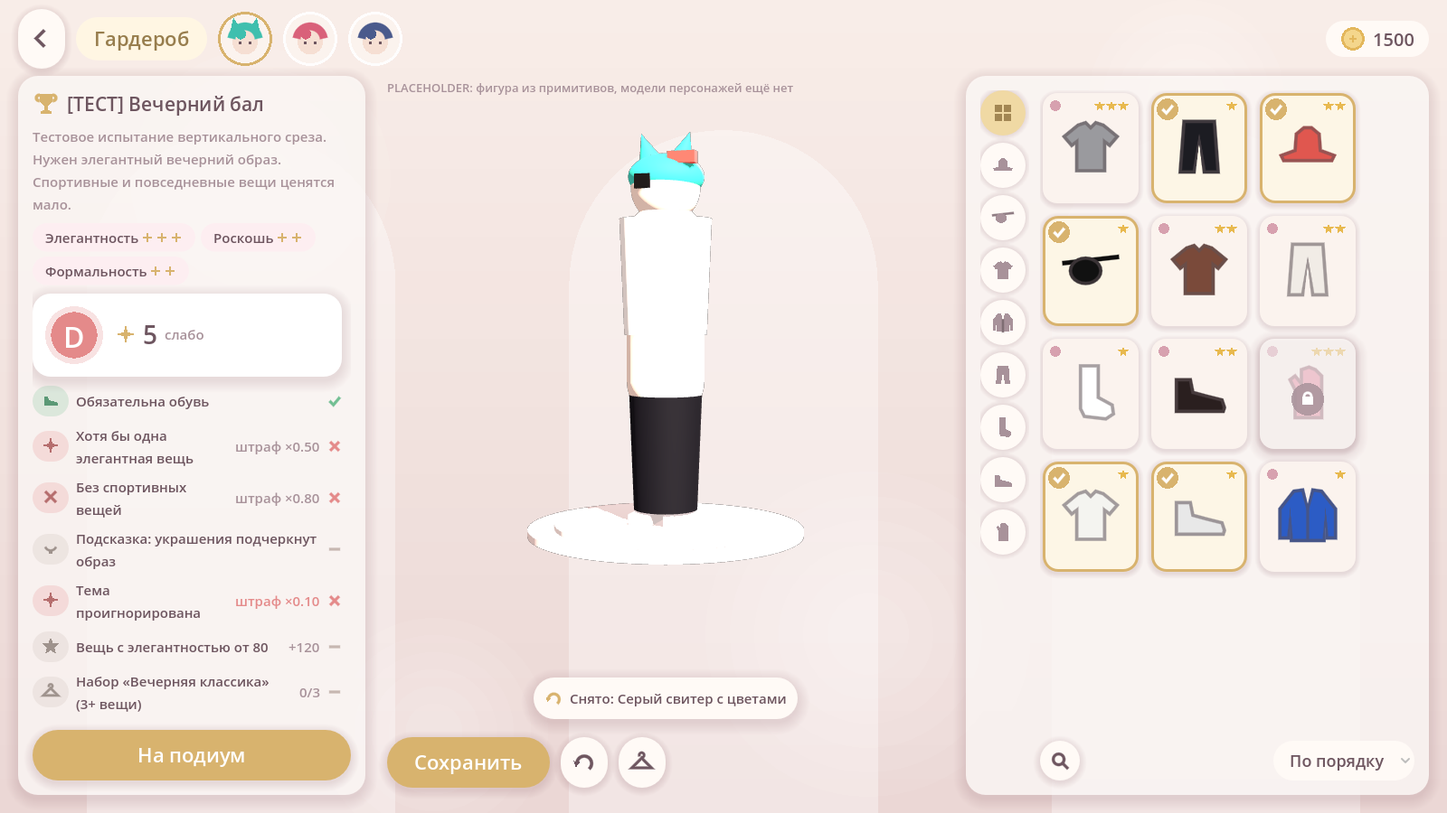
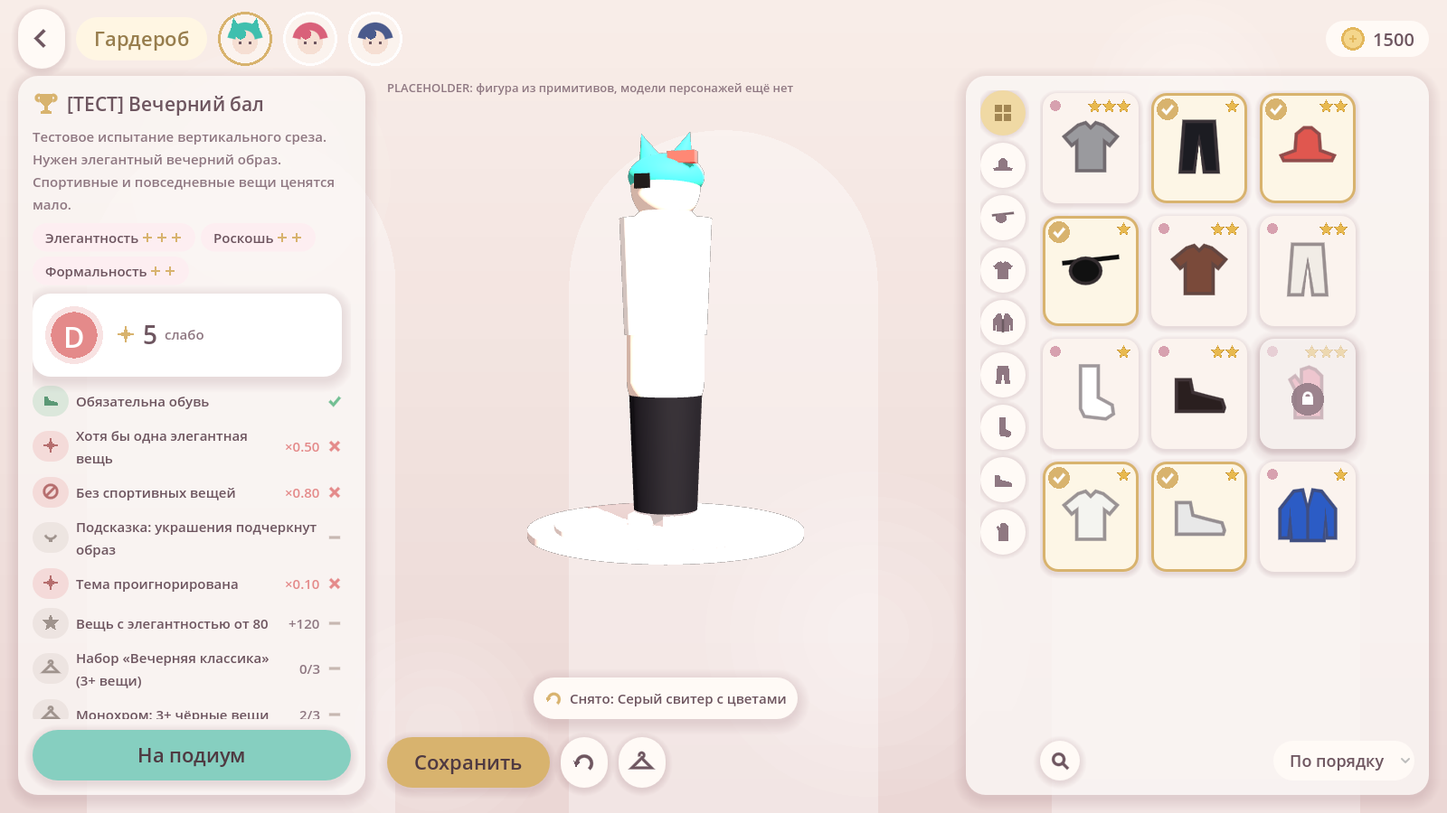
UI polish from visual critic, docs, main scene
- Dark text on gold buttons, darker dim text, outlined 16px stars
- Single gold action per screen: podium button is mint
- Forbid icon for forbidden-tag condition; all failed penalties coral
- 'Fits <character>' in item details; max 3 tips in result window
- Rank badge on phone trophy button
- docs: UI_STYLE, ARCHITECTURE, PROJECT_AUDIT, BUILD_AND_TEST,
  OPEN_QUESTIONS, CHANGELOG; canon wording fixes; scenes/main.tscn

Claude-Session: https://claude.ai/code/session_019T8wJyUBgJMDTSSQJ5uaAw

diff --git a/docs/ARCHITECTURE.md b/docs/ARCHITECTURE.md
@@ -1,0 +1,57 @@
+# Архитектура
+
+Godot 4.4, GDScript. Слои по ТЗ §4:
+
+| Слой | Папка | Что внутри |
+|---|---|---|
+| Domain / Data | `src/wardrobe`, `src/economy`, `src/save`, `src/core/story_flags.gd`, `data/` | Правила и состояние, без зависимостей от сцен. Всё покрыто тестами |
+| Gameplay | `src/gameplay` (будет) | Управление, камера, взаимодействия |
+| Presentation | `src/ui`, `src/visual`, `scenes/` | Экраны, иконки, визуальные заглушки |
+| Platform | `src/core/game.gd` | Автозагрузка, сохранение на диск, масштаб UI |
+
+## Корень сборки
+`GameSession` (`src/core/game_session.gd`) загружает данные из `data/` и связывает сервисы.
+Используется и игрой (через автозагрузку `Game`), и тестами — без сцен.
+
+```
+GameSession
+├─ WardrobeConfig        справочники и коэффициенты (data/wardrobe/config.json)
+├─ ItemCatalog           каталог одежды + валидация (items.json)
+├─ CharacterCatalog      персонажи, типы тела, фирменные образы (characters.json)
+├─ FashionChallengeCatalog  испытания + проверка наград (challenges.json)
+├─ WardrobeInventory     общий гардероб: факт владения
+├─ ResourceInventory     валюта и материалы, транзакционно, с лимитами
+├─ CharacterEquipment    образ каждого персонажа (Outfit), слоты, совместимость
+├─ OutfitPresetManager   сохранённые комплекты
+├─ FashionScoringService детерминированная оценка + отчёт
+├─ FashionAdvisor        советы: какие свои вещи поднимут оценку
+├─ ItemGrantService      единая выдача предметов и правило дубликатов
+├─ CraftingService       выкройки и крафт (атомарно)
+├─ ShopService           магазины (атомарно, лимиты)
+├─ ChallengeRewardService результаты и награды без повторной выдачи
+└─ StoryFlags            сюжетные флаги
+```
+
+## Ключевые решения
+- **Черновик примерки.** UI меняет копию `Outfit`; в `CharacterEquipment` она попадает только по кнопке «Сохранить».
+- **Формула оценки** (ТЗ одежды §9): `Final = round((Σ base·theme·item_mult + синергии + бонусы) · Q)`.
+  Правила темы проверяются в порядке данных, первое совпадение побеждает. Штрафы объединяются методом
+  `strictest` (или `bounded_product` с нижней границей) — порядок проверки не влияет на итог.
+  Штраф «тема проигнорирована» применяется, только если испытание задаёт тематические правила.
+- **Дубликаты** при любой выдаче конвертируются в монеты по редкости (`duplicate_policy`); если лимит монет
+  достигнут — дубликат игнорируется, а не «конвертируется в никуда».
+- **Крафт уже имеющейся уникальной вещи** запрещён, чтобы не тратить материалы впустую.
+- **Сохранения** — JSON в `user://`, версия схемы, явные миграции (`SaveMigrations`), запись через `.tmp`
+  и резервная копия `.bak`. Неизвестные ID не ломают загрузку и хранятся в `orphaned_items`;
+  если предмет вернётся в каталог, он вернётся и в гардероб.
+- **Локализация** — `data/localization/<locale>.json` загружаются в `TranslationServer` при старте.
+
+## Интерфейс
+См. `docs/UI_STYLE.md`. Экран гардероба — `scenes/ui/wardrobe.tscn` (`WardrobeScreen`), состоит из
+переиспользуемых частей: `Sheet` (всплывающее окно), `ItemCard`, `ChallengePanel`, `ItemDetails`,
+`ResultPopup`, `PresetsPanel`, `IconView`/`Icons`, `RankBadge`, `AvatarView`, `SoftBackground`.
+UI не считает очки и не проверяет совместимость сам — только вызывает сервисы.
+
+## Визуальная заглушка
+`PlaceholderAppearance` — манекен из примитивов, показывает слоты, цвета вещей и рост персонажа.
+Это **не** финальная визуальная система: нужны модели, риг и точки крепления (`docs/ART_PIPELINE.md`).

diff --git a/docs/OPEN_QUESTIONS.md b/docs/OPEN_QUESTIONS.md
@@ -1,0 +1,35 @@
+# Открытые вопросы
+
+Вопросы, которые влияют на реализацию и требуют решения пользователя. Пока ответа нет,
+в проекте выбран временный вариант, он указан в колонке «Сейчас».
+
+## Решено пользователем
+| Вопрос | Решение | Дата |
+|---|---|---|
+| Движок | Godot 4 | 21.10.2026 |
+| Пол Габи | Девушка, «она» (полное имя Габриэль) | 21.10.2026 |
+| Повязка на глазу Кота | Снимаемый аксессуар гардероба (слот `face_accessory`) | 21.10.2026 |
+| Стиль интерфейса | Мягкий «облачный», светлый, больше иконок, редкость звёздами, характеристики по долгому нажатию, условия испытания слева / по кнопке на телефоне (`docs/UI_STYLE.md`) | 21.10.2026 |
+
+## Канон и персонажи
+| # | Вопрос | Источник расхождения | Сейчас |
+|---|---|---|---|
+| 1 | Под повязкой у базовой модели Кота открытый глаз или чёлка, закрывающая глаз? | ТЗ §10: «чёлка, закрывающая один глаз»; референс 04: повязка | Повязка снимается; что под ней — не решено |
+| 2 | Семейный отель и «собственный разрушенный дом» Кота — одно место или разные? | Концепция: восстанавливает отель; глава 1: восстанавливает свой дом; референс 09 — дом на острове | Не моделируем ни то, ни другое как канон |
+| 3 | Кем Габи приходится Коту (сестра? другое родство)? | ТЗ: «член семьи»; глава 1 оставляет «вопрос о Габи» открытым | В данных родство не указано |
+| 4 | Базовая причёска Габи: длинные распущенные (реф. 05) или два пучка (реф. 06–07)? | Референсы различаются | В заглушке не отражено |
+| 5 | Рост и телосложение Габи | Нет в материалах | `body_type: compact` (как у Кота), рост не задан |
+| 6 | Фирменные образы: свитер Кота и комплект Габи — канон или только вид на референсах? | ТЗ §10–11: не выводить канон из одного изображения | Собраны по референсам 04 и 07 как **предварительные** |
+| 7 | Участвует ли Сора в гардеробе (переодевание) с начала игры? | ТЗ §11: «если персонаж включён в систему кастомизации» | Доступен (технический вариант для проверки разных типов тела) |
+| 8 | Может ли повязку Кота носить другой персонаж (например, Сора)? | Не указано | Да, тип тела `compact` и `tall` |
+| 9 | Находится ли ЖК Соры в Сидзунда Тавер Сити? | Не указано | Не связаны |
+
+## Техника и контент
+| # | Вопрос | Сейчас |
+|---|---|---|
+| 10 | Языки на старте (только русский? английский?) | Только `ru` |
+| 11 | Шрифт интерфейса: подходит ли округлый Nunito (OFL) или нужен другой? Скачать из окружения не удалось — нужен файл шрифта или разрешение сети | Встроенный шрифт Godot |
+| 12 | Целевые устройства (минимальный телефон, ПК) для профилей качества | Не заданы |
+| 13 | Кто делает 3D-модели персонажей и одежды, формат (glTF/FBX), общий риг | Нет моделей — PLACEHOLDER из примитивов |
+| 14 | Реальные испытания, предметы, цены и награды | Только тестовые данные с пометками [ТЕСТ] / PLACEHOLDER |
+| 15 | Порядок первой главы и пролога относительно «Гостевого визита» | Сюжетный контент ещё не подключён |

diff --git a/docs/UI_STYLE.md b/docs/UI_STYLE.md
@@ -1,0 +1,45 @@
+# Стиль интерфейса
+
+Правила от пользователя (21.10.2026) действуют для **всех** экранов игры.
+
+## Общее настроение
+- Мягкий, «облачный», светлый интерфейс приятных цветов. Ориентир — гардероб Infinity Nikki
+  (кремово-розовый фон с арками, персонаж в центре на круглом подиуме, сетка вещей справа,
+  золотая кнопка «Сохранить»). Интерфейс референса не копируем — берём настроение.
+- Больше изображений, меньше надписей: иконки категорий, монеты, звёзды, кубки, вешалки и т. п.
+  Текст — там, где без него непонятно (названия, описания, условия).
+
+## Конкретные решения
+| Что | Как |
+|---|---|
+| Редкость | Звёзды от 1 до 5 (common → legendary), без слов «Обычный/Редкий» |
+| Характеристики вещи | Только по **долгому нажатию** на карточку (на ПК также правая кнопка мыши) |
+| Тап по вещи | Надеть / снять (в черновик образа) |
+| Условия испытания | ПК и планшеты (ширина ≥ 1000 px логических) — постоянно в левой части; телефон — по круглой золотой кнопке-кубку |
+| Главные действия | Золотые «таблетки» (`UiTheme.primary`) |
+| Второстепенные действия | Круглые кнопки с иконкой (`UiTheme.icon_button`) |
+| Состояния | Не только цветом: значки ✓ / ✕ / ○, замок для несовместимых вещей |
+
+## Палитра (`src/ui/ui_theme.gd`)
+| Токен | Цвет | Назначение |
+|---|---|---|
+| BG_TOP → BG_BOTTOM | `#f8ede8` → `#ead6d4` | фон-градиент |
+| PANEL | молочный, 78 % | панели-«облака» |
+| TEXT / TEXT_DIM | `#6e5660` / `#a8929a` | текст (мягкий сливовый вместо чёрного) |
+| GOLD / GOLD_LIGHT | `#d8b36e` / `#f0d9a4` | главные кнопки, выбранное |
+| MINT | `#86cfc0` | цвет Кота, акценты |
+| PINK | `#efb3c2` | шкалы характеристик, «новое» |
+| OK / WARN / BAD | мягкие зелёный / янтарный / коралловый | статусы |
+
+## Иконки
+Рисуются кодом (`src/ui/icons.gd`): своя графика, без внешних лицензий. Силуэты одежды
+по слотам служат и иконками категорий, и миниатюрами вещей — это PLACEHOLDER до появления
+рендеров вещей. Новую иконку добавляем в `Icons.SHAPES` (полигон в квадрате 0..1) или в `Icons.draw`.
+
+## Шрифт
+Пока встроенный шрифт Godot. Округлый шрифт (например, Nunito, OFL) скачать из окружения не удалось
+(CDN закрыт сетевой политикой) — см. `docs/OPEN_QUESTIONS.md`.
+
+## Адаптивность
+- Масштаб UI по короткой стороне экрана (`Game._update_ui_scale`), в портрете ×1.25.
+- Элементы касания ≥ 44 px.

diff --git a/docs/PROJECT_AUDIT.md b/docs/PROJECT_AUDIT.md
@@ -1,0 +1,38 @@
+# Аудит проекта
+
+Состояние на 21.10.2026.
+
+## Исходное состояние
+Репозиторий был пустым: только README и референсы. Движка, кода и сцен не было. Движок выбран
+пользователем — **Godot 4.4**. Исходные ТЗ и сценарий сохранены без изменений в `docs/source/`.
+
+## Что работает (проверено тестами и скриншотами)
+| Система | Статус | Где |
+|---|---|---|
+| Каталог одежды из данных + валидация | ✅ | `src/wardrobe/item_catalog.gd` |
+| Общий гардероб, совместимость, слоты, цельные наряды | ✅ | `character_equipment.gd`, `compatibility.gd` |
+| Комплекты (создать, применить совместимую часть, удалить) | ✅ | `outfit_preset_manager.gd` |
+| Модное испытание: формула, требования, синергии, ранги, отчёт | ✅ | `fashion_scoring_service.gd` |
+| Советы по улучшению образа | ✅ | `fashion_advisor.gd` |
+| Награды без дублей, крафт, магазин | ✅ (логика; экранов крафта и магазина ещё нет) | `src/economy/` |
+| Сохранения с версиями, миграцией и резервной копией | ✅ | `src/save/` |
+| Экран гардероба и испытания (ПК + телефон) | ✅ в новом мягком стиле | `src/ui/` |
+
+## Частично / заглушки
+| Что | Статус |
+|---|---|
+| Внешний вид персонажей и одежды | **PLACEHOLDER**: манекен из примитивов и нарисованные кодом силуэты вещей |
+| Экраны крафта и магазина | Логика есть, интерфейса нет |
+| Тестовое испытание и предметы | Данные с пометками [ТЕСТ] / PLACEHOLDER |
+
+## Отсутствует (следующие этапы по ТЗ §32)
+- Управляемый персонаж, камера, коллизии, взаимодействия, пауза (этап 2).
+- Импорт моделей и риг (этап 3) — нужны ассеты.
+- Загрузчик сценария и диалоговый проигрыватель (этап 4).
+- Задания, переходы между локациями (этап 5), отель (этап 6).
+
+## Недостающие ресурсы
+- 3D-модели Кота, Габи, Соры и одежды; общий риг; точки крепления аксессуаров.
+- Иконки/рендеры вещей (сейчас силуэты по слотам).
+- Шрифт интерфейса (см. `OPEN_QUESTIONS.md`, вопрос 11).
+- Музыка и звуки.

diff --git a/CHANGELOG.md b/CHANGELOG.md
@@ -1,0 +1,21 @@
+# Журнал изменений
+
+## 2026-10-21
+### Добавлено
+- Проект Godot 4.4: структура папок, автозагрузка `Game`, локализация `ru`.
+- Референсы разложены по папкам с каталогом `art/references/README.md`; исходные ТЗ и сценарий — в `docs/source/`.
+- Система одежды по ТЗ: каталог, общий гардероб, слоты и совместимость, комплекты, модное испытание
+  с объяснением результата, советы, награды без дублей, крафт, магазин, версии сохранений.
+- Экран гардероба в мягком «облачном» стиле: иконки вместо надписей, звёзды редкости, характеристики
+  по долгому нажатию, условия испытания слева (ПК) или по кнопке-кубку (телефон).
+- Инструменты: `tools/run_tests.sh` (64 автотеста), `tools/capture.sh` (скриншоты).
+- Агенты-критики в `.claude/agents/`.
+
+### Исправлено (по ревью критиков)
+- Загрузка повреждённых сохранений и настоящих v0-файлов; потеря ресурсов при достижении лимита;
+  накопление состояния при новой игре/загрузке; валидация наград испытаний; стабильная сортировка;
+  вёрстка (перенос по буквам, обрезанные списки, высота окон).
+
+## Известные проблемы
+- Модели персонажей и одежды — заглушки.
+- Свет на скриншотах проще реального: съёмка через программный OpenGL.

diff --git a/docs/BUILD_AND_TEST.md b/docs/BUILD_AND_TEST.md
@@ -1,0 +1,29 @@
+# Сборка, запуск и тесты
+
+## Требования
+- Godot **4.4.1** (стандартная сборка, не .NET).
+
+## Запуск
+Открыть папку репозитория в Godot и нажать F5. Сейчас главная сцена — экран гардероба
+(`scenes/main.tscn`). Сохранение лежит в `user://save_slot_1.json`
+(Linux: `~/.local/share/godot/app_userdata/KPC — Kot's photo collection/`).
+
+## Автотесты
+```bash
+GODOT=/путь/к/godot ./tools/run_tests.sh
+```
+Скрипт импортирует проект и запускает `tests/run_tests.gd` в headless-режиме.
+Любая `SCRIPT ERROR` считается падением. Тесты используют отдельный файл сохранения.
+
+## Скриншоты для проверки интерфейса
+```bash
+GODOT=/путь/к/godot ./tools/capture.sh res://scenes/ui/wardrobe.tscn docs/screenshots/x.png 1600x900 25 debug_long_press
+```
+Нужны `xvfb-run` и Mesa (программный OpenGL). Съёмка идёт через рендерер Compatibility, поэтому свет
+проще, чем в игре на видеокарте. Последний аргумент — метод сцены, который вызывается перед снимком
+(`debug_try_on`, `debug_long_press`, `debug_result`, `debug_challenge_tab`, `debug_presets`).
+Снимки берут отдельное сохранение и каждый раз начинают новую игру.
+
+## Агенты-критики
+В `.claude/agents/` лежат роли: `tz-critic` (соответствие ТЗ), `canon-critic` (канон и сюжет),
+`visual-critic` (скриншоты и стиль), `code-critic` (баги и тесты). Их запускают после каждого этапа.

diff --git a/.claude/agents/visual-critic.md b/.claude/agents/visual-critic.md
@@ -11,6 +11,13 @@ tools: Read, Glob, Grep
 - референсы и их описание: `art/references/README.md` и изображения рядом;
 - требования: разделы 8–10, 14–15, 17, 19, 30 файла `docs/source/TZ_game_technical.txt`, раздел 14 файла `docs/source/TZ_clothing_system.txt`.
 
+Обязательные правила оформления от пользователя (см. `docs/UI_STYLE.md`) — проверяй их в первую очередь:
+- все интерфейсы мягкие, «облачные», светлых приятных цветов (референс — гардероб Infinity Nikki: кремово-розовый фон с арками, молочные панели, золотые кнопки);
+- больше изображений вместо надписей: иконки категорий, монеты, звёзды, кубки и т. п.;
+- редкость — звёздами (1–5), а не словами;
+- характеристики вещи — только по долгому нажатию на карточку;
+- условия испытания: на больших экранах — в левой части, на телефоне — по отдельной кнопке.
+
 Учитывай контекст: на ранних этапах 3D-модели — это PLACEHOLDER-примитивы. Не ругай сам факт заглушек, но проверь, что они честно помечены и не мешают оценке композиции, света и интерфейса.
 
 Оценивай:

diff --git a/art/references/README.md b/art/references/README.md
@@ -20,6 +20,9 @@
 | 10 | `locations/sora_residence/10_manhattan_evening.jpeg` | ЖК Соры — вечерняя атмосфера | Сумеречное фиолетово-оранжевое небо, сетка тёплых окон, тёмные силуэты соседних зданий |
 | 11 | `locations/sora_residence/11_tower_facade.jpeg` | ЖК Соры — форма здания | Высокая башня бизнес-класса: светлый камень, ритмичная сетка окон, ступенчатые уступы наверху, выраженные вертикали |
 
+Признаки в таблице — то, что видно **на картинке**, а не утверждённый модельный лист.
+Постоянные элементы дизайна персонажей утверждает пользователь (ТЗ, §10–11).
+
 ## Канонические уточнения от пользователя
 
 - Повязка на глазу Кота — **аксессуар гардероба**, не часть базовой модели.
